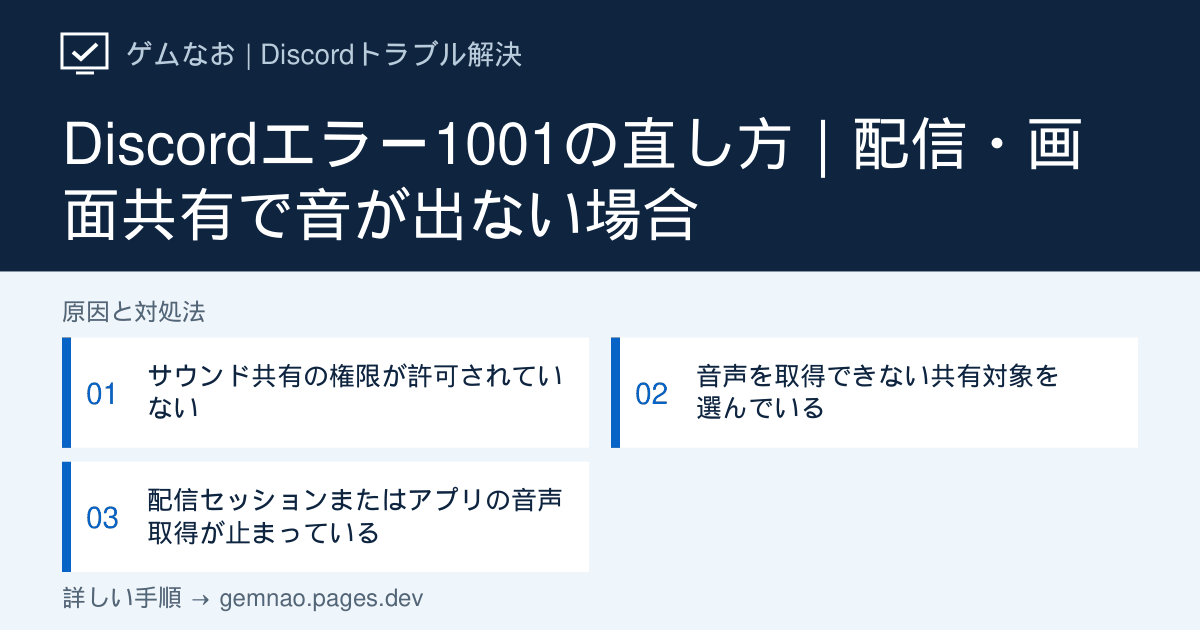
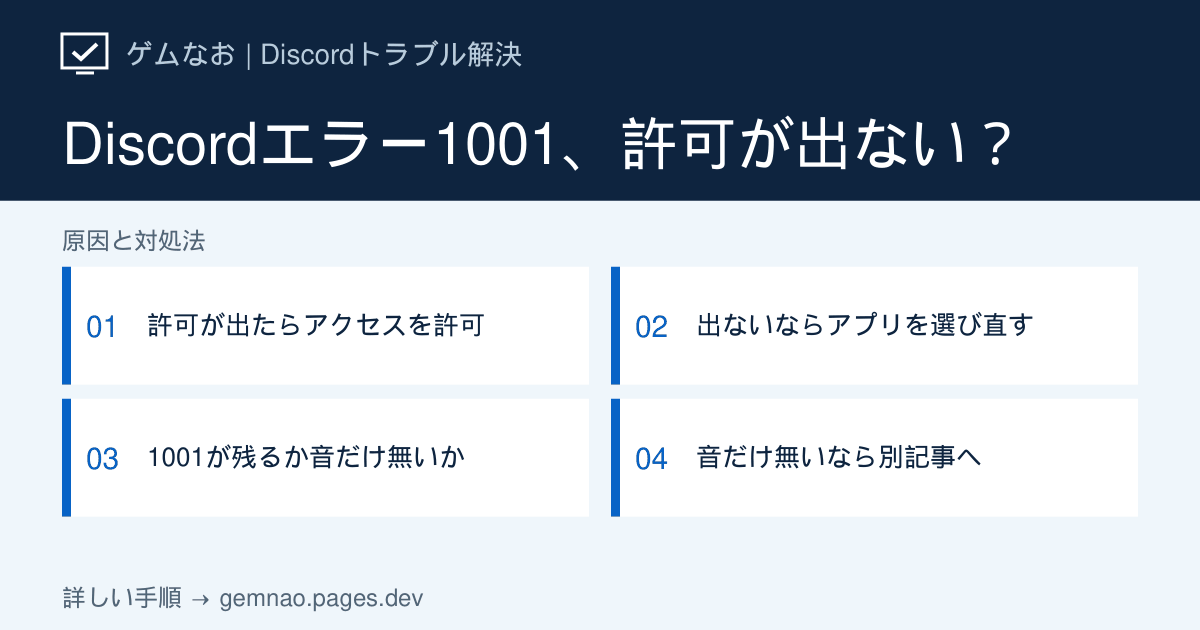
Rewrite Discord error 1001 guide with missing prompt path

diff --git a/lib/discord-p0-articles.ts b/lib/discord-p0-articles.ts
@@ -267,79 +267,148 @@ export const discordP0Articles: DiscordArticle[] = [
   {
     slug: 'error-1001',
     category: 'screen',
-    title: 'Discordエラー1001の直し方｜配信・画面共有で音が出ない場合',
+    title: 'Discordエラー1001の直し方｜音声共有の許可画面が出ない場合も解説',
     shortTitle: 'エラー1001・配信音が出ない',
-    seoTitle: 'Discordエラー1001の直し方｜配信・画面共有で音が出ない場合',
+    seoTitle: 'Discordエラー1001の直し方｜音声共有の許可が出る・出ない場合',
     metaDescription:
-      'Discordの画面共有でエラー1001が出て配信音が共有できない場合の対処法。サウンド共有権限、共有対象、アプリ再起動を順に確認します。',
+      'Discord配信のエラー1001を表示別に切り分け。音声共有の許可画面が出る・出ない場合の手順と、エラーが消えてもゲーム音が聞こえない場合の確認先を解説。',
     symptom:
-      'Go Liveや画面共有の映像は見えるのに音が出ず、エラー1001やサウンドを配信できない旨の表示が出る場合の手順です。',
+      'Go Liveの映像は見えるのに、エラー1001が表示されてゲーム音が届かない。音声共有の許可画面が出る場合・出ない場合で試すことを分けます。',
     target: 'Windows版 DiscordデスクトップアプリのGo Live・画面共有',
     conclusion:
-      'エラー1001は、Discordが共有対象アプリの音声を取得できないときの公式エラーです。表示されたサウンド共有権限を許可し、画面全体ではなく音を出しているアプリを選び直します。',
+      'Discord公式は1001を「サウンド共有の問題」として、許可画面が出たら「アクセスを許可」を選ぶよう案内しています。出ない場合は、権限が未許可と決めつけず、音を鳴らしているアプリを選んで配信し直し、視聴者に結果を聞いてください。コードが消えたのに無音なら、ゲーム音が入らない記事で配信者・視聴者を切り分けます。',
     quickFixes: [
-      '配信開始時に表示されるサウンド共有の権限を許可する',
-      '画面全体ではなく、音を出しているゲームやアプリを共有対象にする',
-      '配信を止め、Discordと共有対象アプリを再起動してからやり直す',
+      '1001の表示文を控え、許可画面が出た場合だけ「アクセスを許可」を選ぶ',
+      '許可画面が出なければ配信を止め、ゲームを鳴らしたまま実際のアプリウィンドウを選び直す',
+      '同じ視聴者に音の出る場面を聞いてもらい、1001が残るか・消えたが無音かを分ける',
+    ],
+    diagnosisTitle: '許可画面は出る？ エラー1001の判定表',
+    diagnosisIntro:
+      '1001の表示、許可画面の有無、視聴者にゲーム音が届くかを順に確認します。音声共有とマイク通話は別です。',
+    diagnosis: [
+      {
+        symptom: '配信開始時に「アクセスを許可」が出る',
+        check:
+          'Discordからのサウンド共有の要求かを確認し、許可後に同じ場面の音を視聴者へ聞く',
+        causeIndex: 1,
+      },
+      {
+        symptom: '1001は出るが、許可画面が出ない',
+        check:
+          '音を出すアプリ本体を共有しているか。配信を止めて同じ対象でやり直しても出ないか',
+        causeIndex: 2,
+      },
+      {
+        symptom: '許可したが1001が消えない',
+        check: '別の音が出るアプリを共有しても同じ1001か',
+        causeIndex: 3,
+      },
+      {
+        symptom: '許可画面は出ず、別アプリだけ配信音が届く',
+        check: '元のゲーム本体と起動ランチャーを取り違えていないか',
+        causeIndex: 3,
+      },
+      {
+        symptom: '1001は消えたが、ゲーム音だけ相手に聞こえない',
+        check: '配信者自身には聞こえるか。視聴者全員か一人だけか',
+        causeIndex: 4,
+      },
+      {
+        symptom: '映像も配信できない／マイクの声だけ聞こえない',
+        check: '1001のアプリ音声ではなく、画面共有開始・マイクの問題として確認',
+        causeIndex: 4,
+      },
     ],
     causes: [
       {
-        title: 'サウンド共有の権限が許可されていない',
+        title: '許可画面が出たら、サウンド共有を許可して結果を聞く',
         description:
-          'Discord公式は、アプリ音声を取得するためにシステムレベルの権限が必要と案内しています。',
+          'Discord公式が1001で明示している手順です。許可しなくても映像の配信は続く場合があります。',
         actions: [
-          'いったん画面共有を停止する',
-          '同じゲームまたはアプリを選んで配信を開始する',
-          'サウンド共有の許可画面が出たら「アクセスを許可」を選ぶ',
-          '視聴者にアプリ音声が聞こえるか確認する',
+          '配信開始時のDiscordのサウンド共有に関する要求を確認し、表示された場合は「アクセスを許可」を選ぶ。マイクの許可や音量設定とは区別する。',
+          'ゲームまたはアプリで音が鳴る場面を用意し、同じ視聴者に「配信を見る」から開いて音が届くか聞く。1001が消えたかも確認する。',
+          '許可後も1001が残るなら原因3へ。コードは消えたが音だけ届かないなら原因4へ進む。',
         ],
+        note: '画面が見えるだけでは、音声共有まで成功したとは判断できません。公式は許可がない場合も映像は配信され得ると案内しています。',
       },
       {
-        title: '音声を取得できない共有対象を選んでいる',
+        title: '許可画面が出ない場合は、配信対象を選び直して再確認する',
         description:
-          '画面全体の共有ではなく、音を再生しているアプリのウィンドウを選ぶと切り分けやすくなります。',
+          '許可画面が出ない理由はこの表示だけでは分かりません。画面を強制的に出すための未確認のWindows設定を探す前に、音を出すアプリで配信を比べます。',
         actions: [
-          '共有するゲームまたはアプリを起動する',
-          'Discordの「画面を共有する」を開く',
-          '画面全体ではなく対象アプリを選ぶ',
-          'サウンド共有が有効になっていることを確認して配信する',
+          '配信を止め、ゲームで効果音などを鳴らして配信者自身に聞こえるか確かめる。ゲーム本体と起動ランチャーのどちらが音を出しているか確認する。',
+          'ボイスチャンネルの「画面を共有」を開き、実際に音を出しているアプリのウィンドウを選んでGo Liveを開始する。許可画面が現れた時だけ原因1の手順で許可する。',
+          '同じ視聴者に同じ場面を聞いてもらう。1001が残るならDiscordをタスクトレイから完全終了し、開き直して一度だけ同じ対象で比較する。',
+          '再起動後も許可画面が出ず1001が残るなら、繰り返し再接続するより原因3で別アプリと比べる。',
         ],
+        note: '許可画面が出ないことだけを「拒否された証拠」としません。音声を共有する項目が表示されない場合も、表示されないスイッチを探し続けず、選んだアプリと結果を確認します。',
       },
       {
-        title: '配信セッションまたはアプリの音声取得が止まっている',
+        title: '1001が続く場合、別アプリでも出るか比べて相談先を決める',
         description:
-          '権限を許可済みなら、配信とアプリを作り直して一時的な状態をリセットします。',
+          '同じコードがすべてのアプリで出るか、特定のゲームだけかを比べます。比較結果は公式サポートに渡す情報になります。',
         actions: [
-          '画面共有を停止してボイスチャンネルから退出する',
-          'Discordをタスクトレイから完全終了する',
-          '共有するゲームまたはアプリも終了する',
-          '両方を起動し直してから配信を開始する',
+          '私的な音声ファイルなど権利上共有できる短い音を、別のアプリで再生してそのアプリを共有する。同じ視聴者に聞こえるか、1001が表示されるか確かめる。',
+          '別アプリなら音が届き1001も消える場合、元のゲームの音声設定・出力先と共有対象を確認する。1001が出ないのに無音なら原因4へ。',
+          'どのアプリでも1001が続く場合、許可画面の有無、表示文、利用OS・Discordの版、試したアプリを控え、Discord公式のエラーコードガイドとサポートを確認する。',
+        ],
+        note: '1001が出ている最中は配信アプリの音声取得の問題として扱います。マイクや視聴者の音量だけを変更しても、コードの原因は特定できません。',
+      },
+      {
+        title: '1001が消えたのに無音なら、ゲーム音の記事へ進む',
+        description:
+          'エラー表示がなくなった後の無音は、配信者の出力・共有方法・視聴者ごとの音量で分かれます。映像が配信できない、マイクの声だけ無音の場合も別の切り分けです。',
+        actions: [
+          '1001が消えたのを確認し、配信者自身にゲーム音が聞こえるか確かめる。聞こえなければWindowsのゲーム別音量・出力先を確認する。',
+          '配信者は聞こえるが視聴者全員に届かない場合、ゲームのアプリ共有と画面全体共有を同じ視聴者で比べる。一人だけ無音なら、その視聴者の配信ミュート・配信音量を確認する。',
+          '具体的な画面操作は、この下の「Discord配信でゲーム音が入らない」のリンク先へ。映像も配信できない場合は関連記事「画面共有できない」、マイクだけ無音ならマイクの記事を確認する。',
         ],
       },
     ],
     ifNotFixed:
-      '別のアプリを共有したときにも1001が出るか確認してください。特定のゲームだけなら、そのゲームの音声取得との相性である可能性があります。すべてのアプリで出る場合は、公式エラーコードガイドと一般の配信音声記事を確認し、エラー画面を添えてサポートへ連絡します。',
+      '1001が続く場合はDiscord公式サポートへ、エラー全文・許可画面が出たか・アプリを選んだか・別アプリでの成否・OSとDiscordの版をまとめて伝えてください。1001が消え、映像は映るがゲーム音が届かない場合は、次の記事「Discord配信でゲーム音が入らない」から配信者と視聴者の音量を確認できます。',
+    followUp: {
+      title: '1001が消えたのに、配信でゲーム音が聞こえない場合',
+      description:
+        'ここからはエラーコードより、配信者にゲーム音が聞こえるか・視聴者全員か一人だけ無音かで原因が変わります。Windowsの音量ミキサー、アプリと画面全体の比較、視聴者の配信音量を確認してください。',
+      href: '/discord/stream-no-audio',
+      label: 'Discord配信でゲーム音が入らない記事へ進む',
+    },
     faqs: [
       {
-        question: 'エラー1001はマイクのエラーですか？',
+        question:
+          'エラー1001で「アクセスを許可」が表示されません。どこで設定できますか？',
         answer:
-          'Discord公式では「サウンド共有の問題」とされ、配信するアプリの音声をDiscordが取得できない場合のエラーです。マイク入力とは分けて確認します。',
+          'Discord公式は表示された場合の許可を案内していますが、すべての環境で手動表示できる設定は示していません。出ない場合は音を出すアプリを共有対象に選び直し、Discordを完全終了して再起動後に一度比較してください。1001が続けば別アプリでも試し、結果を公式サポートへ伝えます。',
       },
       {
-        question: '映像が見えていてもサウンド共有権限は必要ですか？',
+        question:
+          '映像が見えるのに1001が出ます。映像の配信も失敗していますか？',
         answer:
-          'はい。公式案内では、権限がない場合も映像の配信は続きますが、視聴者は共有アプリの音声を聞けません。',
+          'Discord公式はサウンド共有の権限がない場合も配信自体は続き、視聴者にアプリ音声が届かないと説明しています。映像とアプリの音声を分けて確認してください。',
       },
       {
-        question: '画面全体の共有で音を出せますか？',
+        question: '1001が消えたのに、ゲーム音だけ聞こえないのはなぜ？',
         answer:
-          '環境や共有方法で音声の扱いが異なるため、切り分け時は音を出しているアプリ単体を共有対象にしてください。',
+          '配信者のゲームの出力先、共有方法、視聴者ごとの配信ミュートなどを確認します。上の「Discord配信でゲーム音が入らない」記事に、配信者本人・視聴者全員・一人だけの判定表があります。',
       },
     ],
-    sources: [errorCodeGuide, status],
-    related: ['stream-no-audio', 'screen-share-not-working', 'error-1002'],
-    checkedAt: '2026-09-17',
+    sources: [
+      errorCodeGuide,
+      official('360040816151', 'Go Liveと画面共有・視聴者の配信音量'),
+      voiceVideoGuide,
+      status,
+    ],
+    related: ['stream-no-audio', 'screen-share-not-working', 'mic-not-working'],
+    checkedAt: '2026-09-27',
     status: 'verified',
+    ogTitle: 'Discordエラー1001、許可が出ない？',
+    ogSteps: [
+      '許可が出たらアクセスを許可',
+      '出ないならアプリを選び直す',
+      '1001が残るか音だけ無いか',
+      '音だけ無いなら別記事へ',
+    ],
   },
   {
     slug: 'error-1002',

diff --git a/app/discord/[slug]/page.tsx b/app/discord/[slug]/page.tsx
@@ -186,6 +186,7 @@ export default async function DiscordArticlePage({
               {i + 1}. {cause.title}
             </a>
           ))}
+          {item.followUp ? <a href="#next-guide">次に確認する記事</a> : null}
           <a href="#faq">よくある質問</a>
           <a href="#references">参考情報</a>
         </aside>
@@ -282,6 +283,15 @@ export default async function DiscordArticlePage({
               { href: '/discord', label: 'Discordトラブル一覧へ戻る' },
             ]}
           />
+          {item.followUp ? (
+            <section className="answer-summary" id="next-guide">
+              <h2>{item.followUp.title}</h2>
+              <p>{item.followUp.description}</p>
+              <p>
+                <a href={item.followUp.href}>{item.followUp.label} →</a>
+              </p>
+            </section>
+          ) : null}
           <section className="caution-block">
             <h2>
               <AlertTriangle size={22} />

diff --git a/lib/og-image-manifest.ts b/lib/og-image-manifest.ts
@@ -10,7 +10,7 @@ export const ogImageManifest: Record<string, string> = {
   "/discord/camera-not-working": "7ef95e75",
   "/discord/crashing": "835e2bab",
   "/discord/echo-double-voice": "3f0e58c6",
-  "/discord/error-1001": "cda8bbb0",
+  "/discord/error-1001": "7cb71244",
   "/discord/error-1002": "ead6d712",
   "/discord/error-1003": "aa3963fa",
   "/discord/game-not-detected": "c3572bd7",

diff --git a/lib/discord-articles.ts b/lib/discord-articles.ts
@@ -38,6 +38,12 @@ export type DiscordArticle = {
   diagnosisIntro?: string;
   causes: DiscordCause[];
   ifNotFixed: string;
+  followUp?: {
+    title: string;
+    description: string;
+    href: string;
+    label: string;
+  };
   faqs: { question: string; answer: string }[];
   sources: { label: string; url: string }[];
   related: string[];
